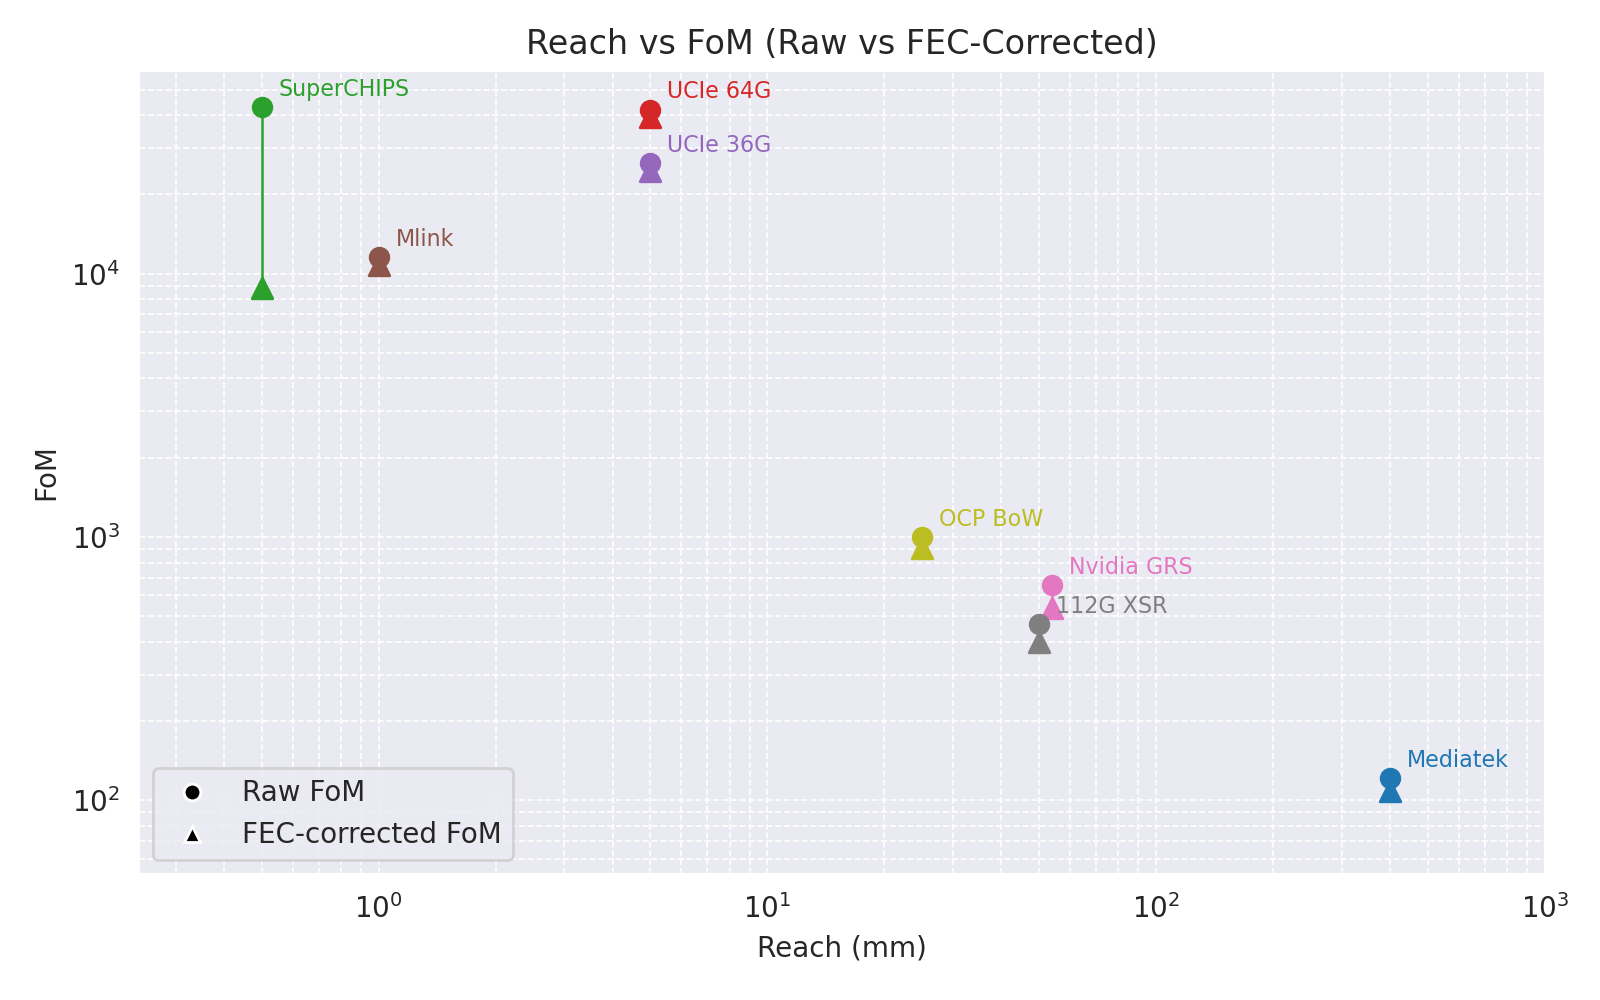
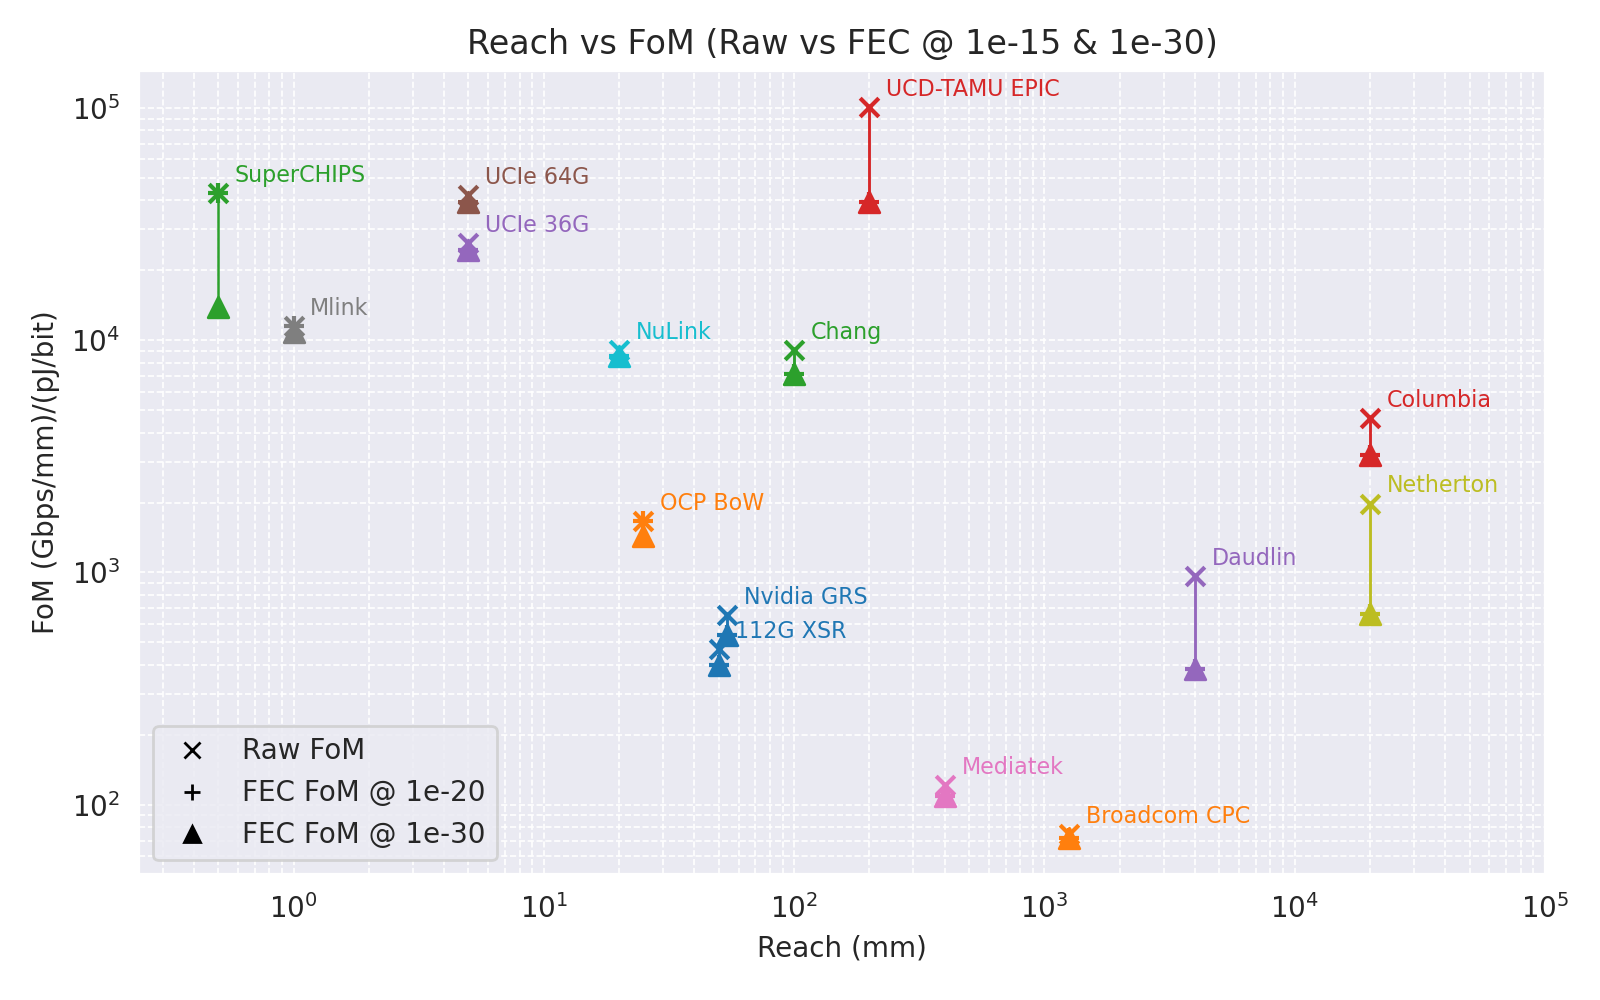
update plots

diff --git a/scripts/reach_fom_plot.py b/scripts/reach_fom_plot.py
@@ -13,6 +13,7 @@ import seaborn as sns
 
 HERE = Path(__file__).resolve().parent
 ROOT = HERE.parent
+BER_TARGETS = (1e-20, 1e-30)
 
 
 @dataclass(frozen=True)
@@ -52,8 +53,8 @@ BASE_DATASET_NODES = {
 
 
 def choose_dataset(process_nm: float) -> str:
-    # Select FEC dataset whose nominal process is closest to the target.
-    return min(BASE_DATASET_NODES.keys(), key=lambda name: abs(process_nm - BASE_DATASET_NODES[name]))
+    # ASAP7 models advanced nodes; NanGate45 covers larger processes.
+    return "ASAP7" if process_nm <= 16 else "NanGate45"
 
 
 def map_process_to_model(process_nm: float) -> int:
@@ -74,7 +75,14 @@ def load_links(path: Path) -> pd.DataFrame:
 
 def closest_row_by_ber(df: pd.DataFrame, target_ber: float) -> pd.Series:
     ber_col = "plot_ber" if "plot_ber" in df.columns else "input_preFEC_BER"
-    idx = (df[ber_col].astype(float) - target_ber).abs().idxmin()
+    ber_values = df[ber_col].astype(float)
+    meets_target = ber_values >= target_ber
+
+    if meets_target.any():
+        idx = ber_values[meets_target].idxmin()
+    else:
+        idx = ber_values.idxmax()
+
     return df.loc[idx]
 
 
@@ -91,12 +99,13 @@ def compute_metrics() -> pd.DataFrame:
         dataset = choose_dataset(process_nm)
         base_node = BASE_DATASET_NODES[dataset]
         fec_df = fec_data[dataset]
-        fec_row = closest_row_by_ber(fec_df, link["BER"])
+        link_ber = float(link["BER"])
 
-        code_rate = fec_row["rate"]
-        fec_energy = fec_row["energy"]
+        fec_df = fec_df.copy()
+        if "BER Target" in fec_df.columns:
+            fec_df["BER Target"] = fec_df["BER Target"].astype(float)
+
         energy_factor_base = ENERGY_MODELS[base_node].energy_factor()
-
         if process_nm < 7:
             tsmc_scale, tsmc_ref = tsmc_scaling_factor(process_nm)
             energy_factor_target = energy_factor_base * tsmc_scale
@@ -107,60 +116,84 @@ def compute_metrics() -> pd.DataFrame:
             energy_factor_target = ENERGY_MODELS[target_node].energy_factor()
             scaling_source = f"Polynomial_{target_node}nm"
 
-        fec_energy_scaled = fec_energy * (energy_factor_target / energy_factor_base)
-
         gbps_per_mm = link["Gbps_per_mm"]
         link_energy = link["pJ_per_bit"]
+        reach_mm = link["Reach_mm"]
 
-        fom_raw = gbps_per_mm / link_energy
-        numerator = gbps_per_mm * code_rate
-        denom_unscaled = (link_energy / code_rate) + fec_energy
-        denom_scaled = (link_energy / code_rate) + fec_energy_scaled
+        for target_ber in BER_TARGETS:
+            code_rate = 1.0
+            fec_energy = 0.0
+            fec_energy_scaled = 0.0
 
-        rows.append(
-            {
-                "Name": link["Name"],
-                "Process_nm": process_nm,
-                "Reach_mm": link["Reach_mm"],
-                "Gbps_per_mm": gbps_per_mm,
-                "Link_pJ_per_bit": link_energy,
-                "BER": link["BER"],
-                "Chosen_FEC_dataset": dataset,
-                "Base_node_nm": base_node,
-                "Target_model_node_nm": target_node,
-                "FEC_code_rate": code_rate,
-                "FEC_energy_pJ_source": fec_energy,
-                "FEC_energy_pJ_scaled": fec_energy_scaled,
-                "FoM_raw": fom_raw,
-                "FoM_fec_unscaled": numerator / denom_unscaled,
-                "FoM_fec_scaled": numerator / denom_scaled,
-                "Energy_factor_base": energy_factor_base,
-                "Energy_factor_target": energy_factor_target,
-                "Energy_scaling_source": scaling_source,
-            }
-        )
+            if link_ber > target_ber:
+                target_df = fec_df
+                if "BER Target" in fec_df.columns:
+                    target_rows = fec_df[np.isclose(fec_df["BER Target"], target_ber, rtol=0.0, atol=1e-40)]
+                    if not target_rows.empty:
+                        target_df = target_rows
+
+                fec_row = closest_row_by_ber(target_df, link_ber)
+                code_rate = float(fec_row["rate"])
+                fec_energy = float(fec_row["energy"])
+                fec_energy_scaled = fec_energy * (energy_factor_target / energy_factor_base)
+
+            fom_raw = gbps_per_mm / link_energy
+            numerator = gbps_per_mm * code_rate
+            denom_unscaled = (link_energy / code_rate) + fec_energy
+            denom_scaled = (link_energy / code_rate) + fec_energy_scaled
+
+            rows.append(
+                {
+                    "Name": link["Name"],
+                    "Process_nm": process_nm,
+                    "Reach_mm": reach_mm,
+                    "Gbps_per_mm": gbps_per_mm,
+                    "Link_pJ_per_bit": link_energy,
+                    "BER": link_ber,
+                    "BER_target": target_ber,
+                    "Chosen_FEC_dataset": dataset,
+                    "Base_node_nm": base_node,
+                    "Target_model_node_nm": target_node,
+                    "FEC_code_rate": code_rate,
+                    "FEC_energy_pJ_source": fec_energy,
+                    "FEC_energy_pJ_scaled": fec_energy_scaled,
+                    "FoM_raw": fom_raw,
+                    "FoM_fec_unscaled": numerator / denom_unscaled,
+                    "FoM_fec_scaled": numerator / denom_scaled,
+                    "Energy_factor_base": energy_factor_base,
+                    "Energy_factor_target": energy_factor_target,
+                    "Energy_scaling_source": scaling_source,
+                }
+            )
 
     return pd.DataFrame(rows)
 
 
 def write_outputs(df: pd.DataFrame) -> None:
+    df_sorted = df.sort_values(["Name", "BER_target"]).reset_index(drop=True)
     out_csv = ROOT / "plots" / "reach_vs_fom_scaled.csv"
-    df.to_csv(out_csv, index=False)
+    df_sorted.to_csv(out_csv, index=False)
 
     sns.set_style("darkgrid")
     fig, ax = plt.subplots(figsize=(8, 5))
-    colors = sns.color_palette("tab10", len(df))
+    ordered_names = list(dict.fromkeys(df_sorted["Name"]))
+    colors = sns.color_palette("tab10", len(ordered_names))
+    name_to_color = dict(zip(ordered_names, colors))
 
-    for color, (_, row) in zip(colors, df.iterrows()):
-        reach = row["Reach_mm"]
-        fom_raw = row["FoM_raw"]
-        fom_scaled = row["FoM_fec_scaled"]
+    target_markers = {1e-20: "+", 1e-30: "^"}
 
-        ax.scatter(reach, fom_raw, marker="o", color=color, s=45)
-        ax.scatter(reach, fom_scaled, marker="^", color=color, s=55)
-        ax.plot([reach, reach], [fom_raw, fom_scaled], color=color, linewidth=0.9)
+    for name in ordered_names:
+        group = df_sorted[df_sorted["Name"] == name]
+        if group.empty:
+            continue
+
+        color = name_to_color[name]
+        reach = group.iloc[0]["Reach_mm"]
+        fom_raw = group.iloc[0]["FoM_raw"]
+
+        ax.scatter(reach, fom_raw, marker="x", color=color, s=45)
         ax.annotate(
-            row["Name"],
+            name,
             (reach, fom_raw),
             textcoords="offset points",
             xytext=(6, 4),
@@ -168,20 +201,40 @@ def write_outputs(df: pd.DataFrame) -> None:
             color=color,
         )
 
+        for _, row in group.iterrows():
+            target_ber = row["BER_target"]
+            marker = target_markers.get(target_ber, "D")
+            fom_scaled = row["FoM_fec_scaled"]
+
+            ax.scatter(reach, fom_scaled, marker=marker, color=color, s=55)
+            ax.plot([reach, reach], [fom_raw, fom_scaled], color=color, linewidth=0.9)
+
     ax.set_xscale("log")
-    ax.set_xlim(xmax=1e3)
+    ax.set_xlim(xmax=1e5)
     ax.set_yscale("log")
     ax.set_xlabel("Reach (mm)")
-    ax.set_ylabel("FoM")
-    ax.set_title("Reach vs FoM (Raw vs FEC-Corrected)")
+    ax.set_ylabel("FoM (Gbps/mm)/(pJ/bit)")
+    ax.set_title("Reach vs FoM (Raw vs FEC @ 1e-15 & 1e-30)")
     ax.grid(True, which="both", linestyle="--", linewidth=0.6)
 
     from matplotlib.lines import Line2D
 
     legend_handles = [
-        Line2D([0], [0], marker="o", color="w", markerfacecolor="black", markersize=6, linestyle="None", label="Raw FoM"),
-        Line2D([0], [0], marker="^", color="w", markerfacecolor="black", markersize=6, linestyle="None", label="FEC-corrected FoM"),
+        Line2D([0], [0], marker="x", color="black", markerfacecolor="black", markersize=6, linestyle="None", label="Raw FoM")
     ]
+    for target_ber, marker in target_markers.items():
+        legend_handles.append(
+            Line2D(
+                [0],
+                [0],
+                marker=marker,
+                color="black",
+                markerfacecolor="black",
+                markersize=6,
+                linestyle="None",
+                label=f"FEC FoM @ {target_ber:.0e}",
+            )
+        )
     ax.legend(handles=legend_handles, loc="lower left")
 
     fig.tight_layout()
